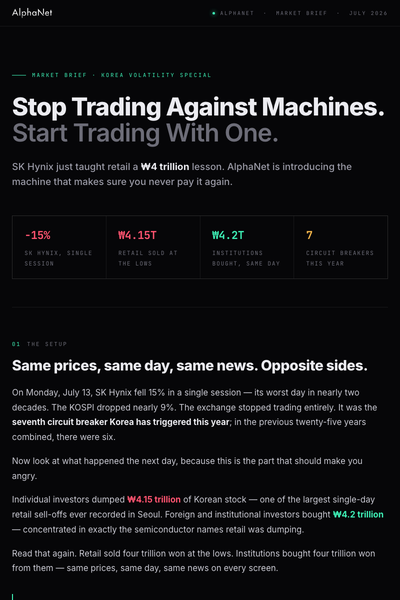
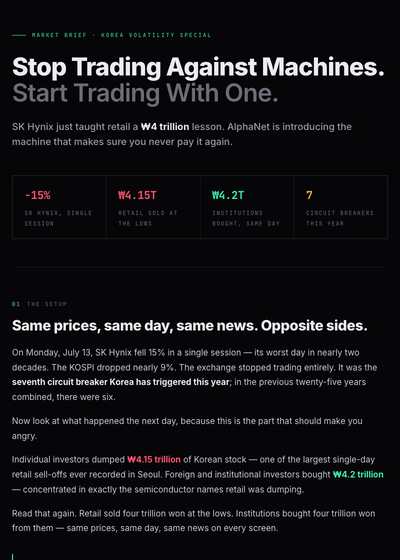
Crop nav from screenshots, use background-size:contain to show full content

diff --git a/index.html b/index.html
@@ -928,8 +928,9 @@ img { max-width: 100%; display: block; }
   justify-content: center;
   overflow: hidden;
   min-height: 100%;
-  background-size: cover;
-  background-position: center;
+  background-size: contain;
+  background-position: top center;
+  background-repeat: no-repeat;
   background-color: var(--bg-surface);
 }
 .blog-card-cover::before {
@@ -946,10 +947,7 @@ img { max-width: 100%; display: block; }
   display: none;
 }
 .blog-card-cover[data-cover]:not([data-cover=""])::after {
-  content: '';
-  position: absolute;
-  inset: 0;
-  background: linear-gradient(135deg, rgba(8, 12, 22, 0.15), rgba(8, 12, 22, 0.45));
+  display: none;
 }
 .blog-card-cover-visual {
   position: relative;
